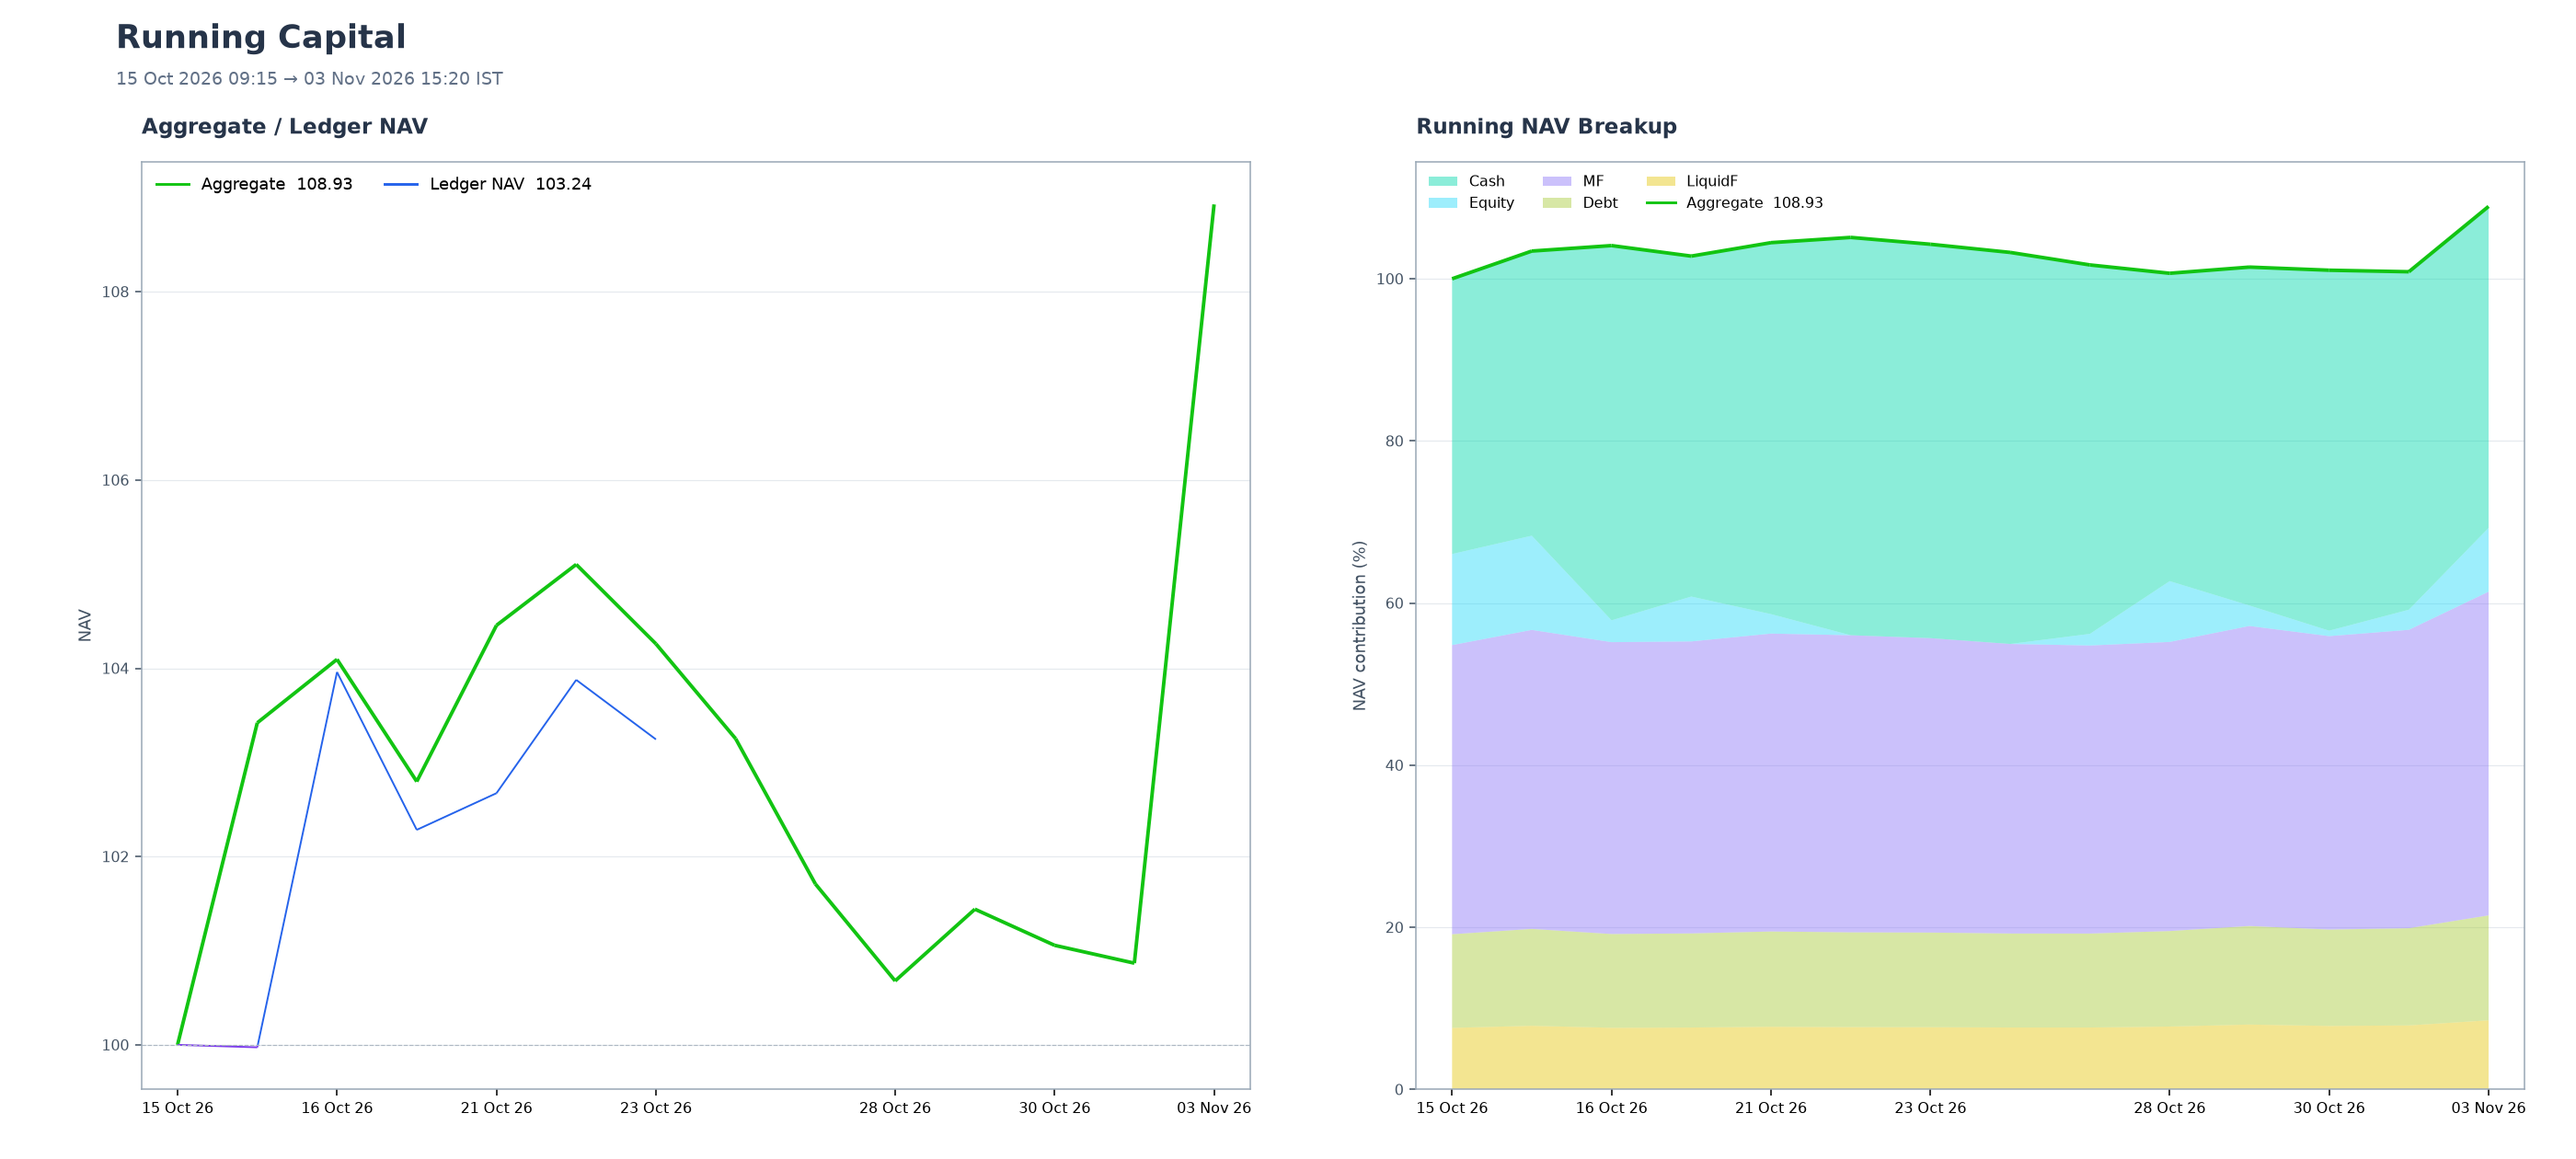
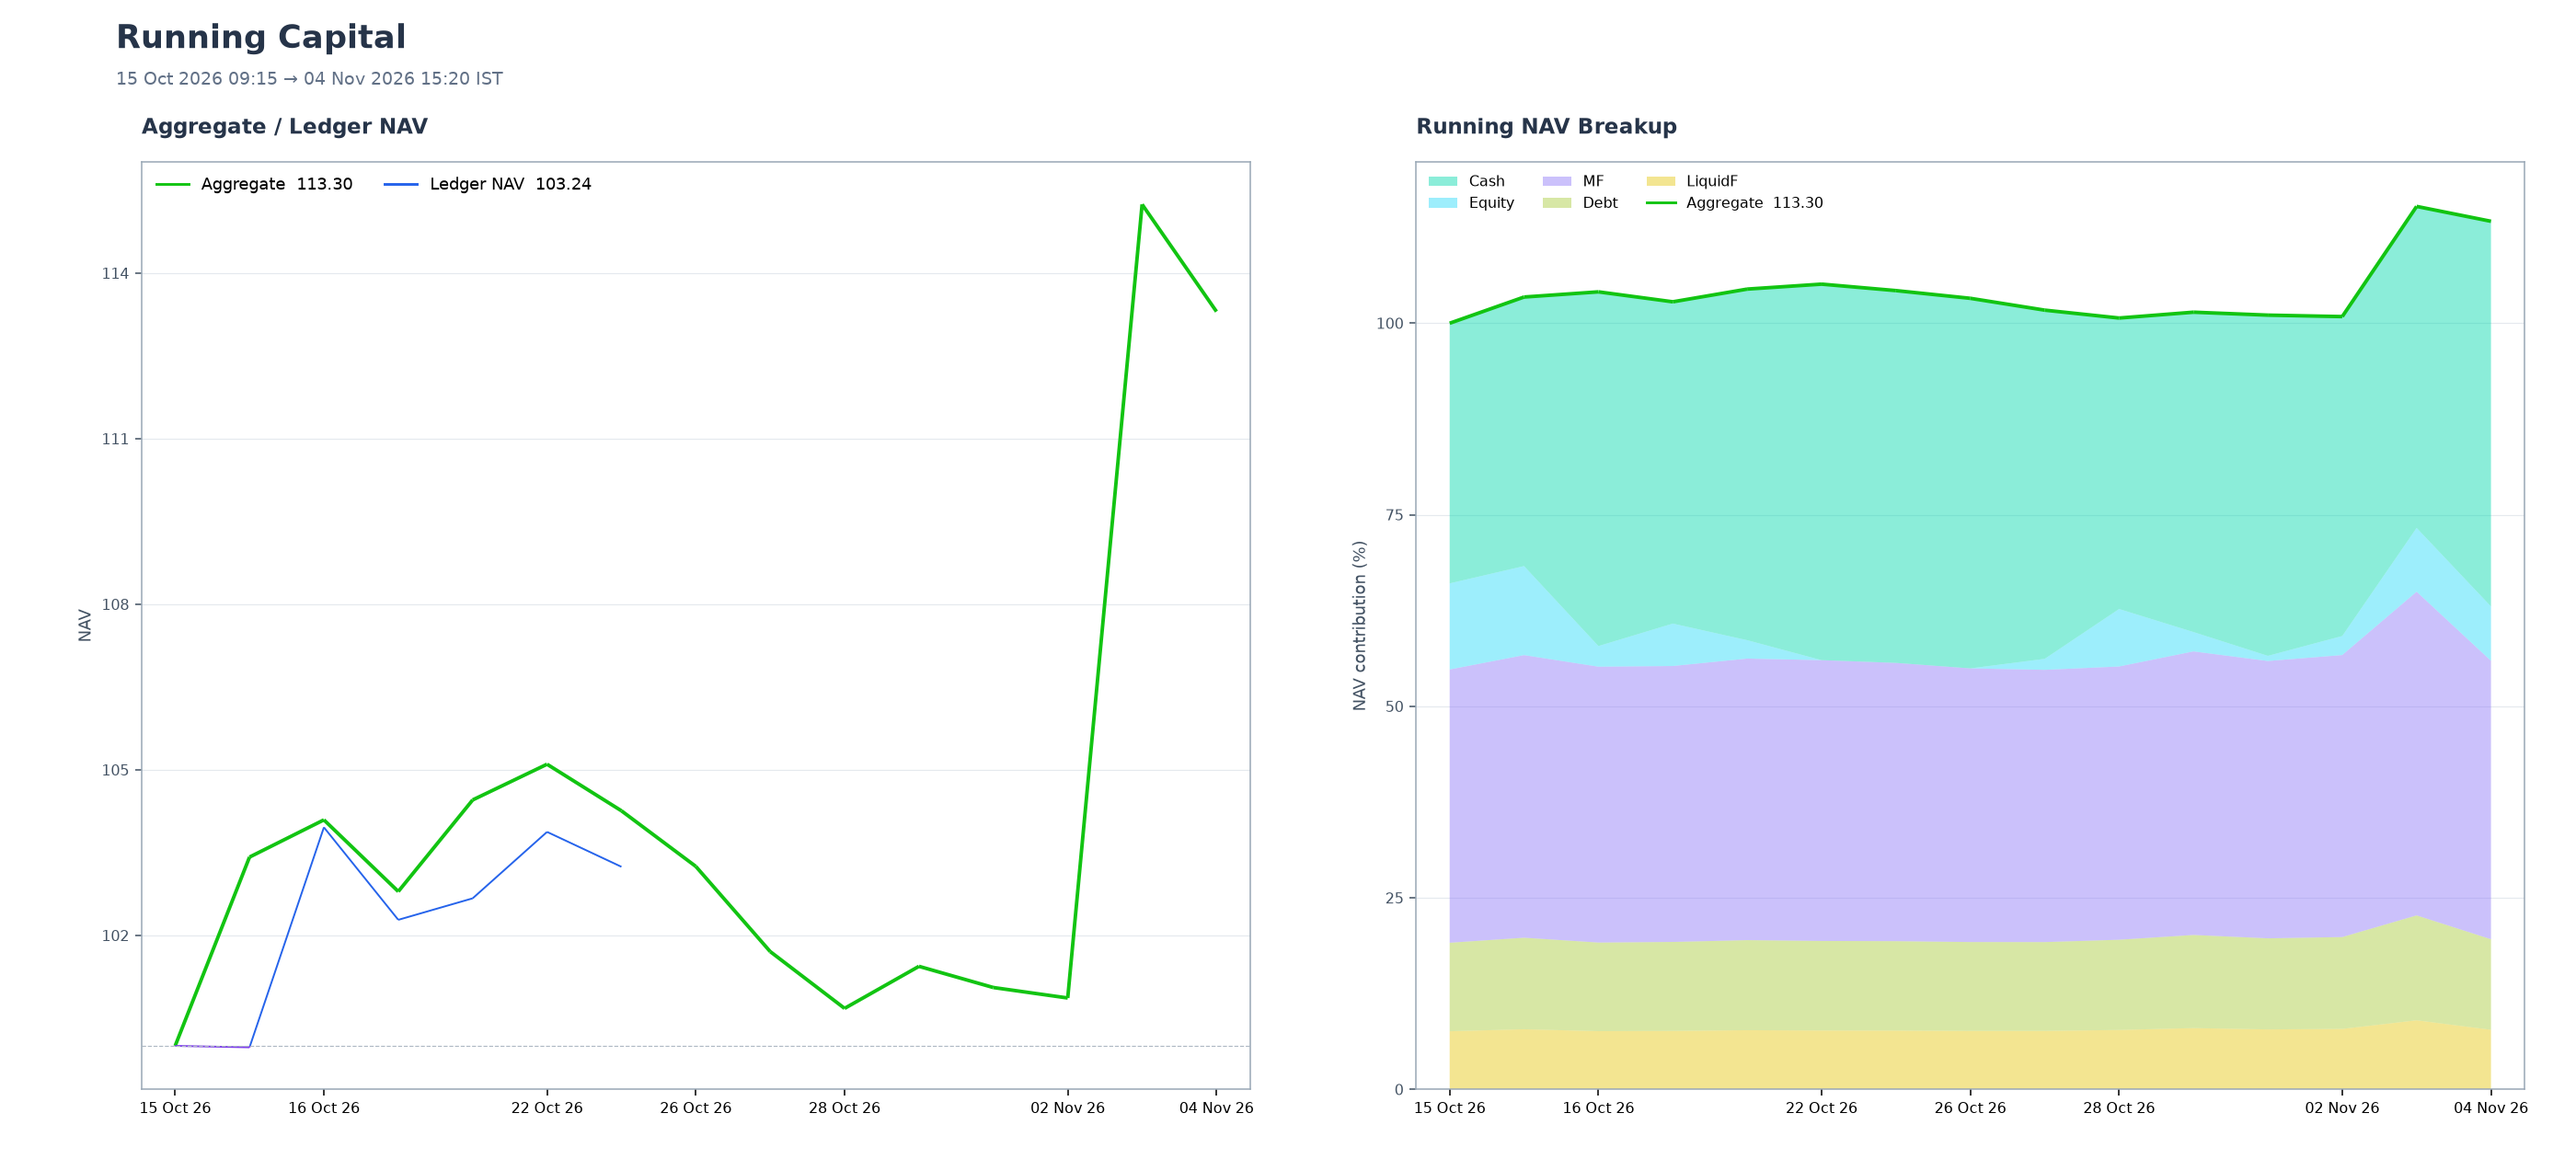
Nabz report 2026-11-04

diff --git a/content/daily/20261104.md b/content/daily/20261104.md
@@ -1,0 +1,9 @@
+---
+title: "20261104"
+date: 2026-11-04T15:20:00+05:30
+slug: "20261104"
+folder: "20261104"
+iso_date: "2026-11-04"
+preview: false
+strategy_today: "1520-start0830-strategy-today-REL.png"
+---

diff --git a/content/i/98847e6104df86960a6e.md b/content/i/98847e6104df86960a6e.md
@@ -1,0 +1,4 @@
+---
+title: "Today's P&L"
+image: "i/98847e6104df86960a6e.png"
+---
